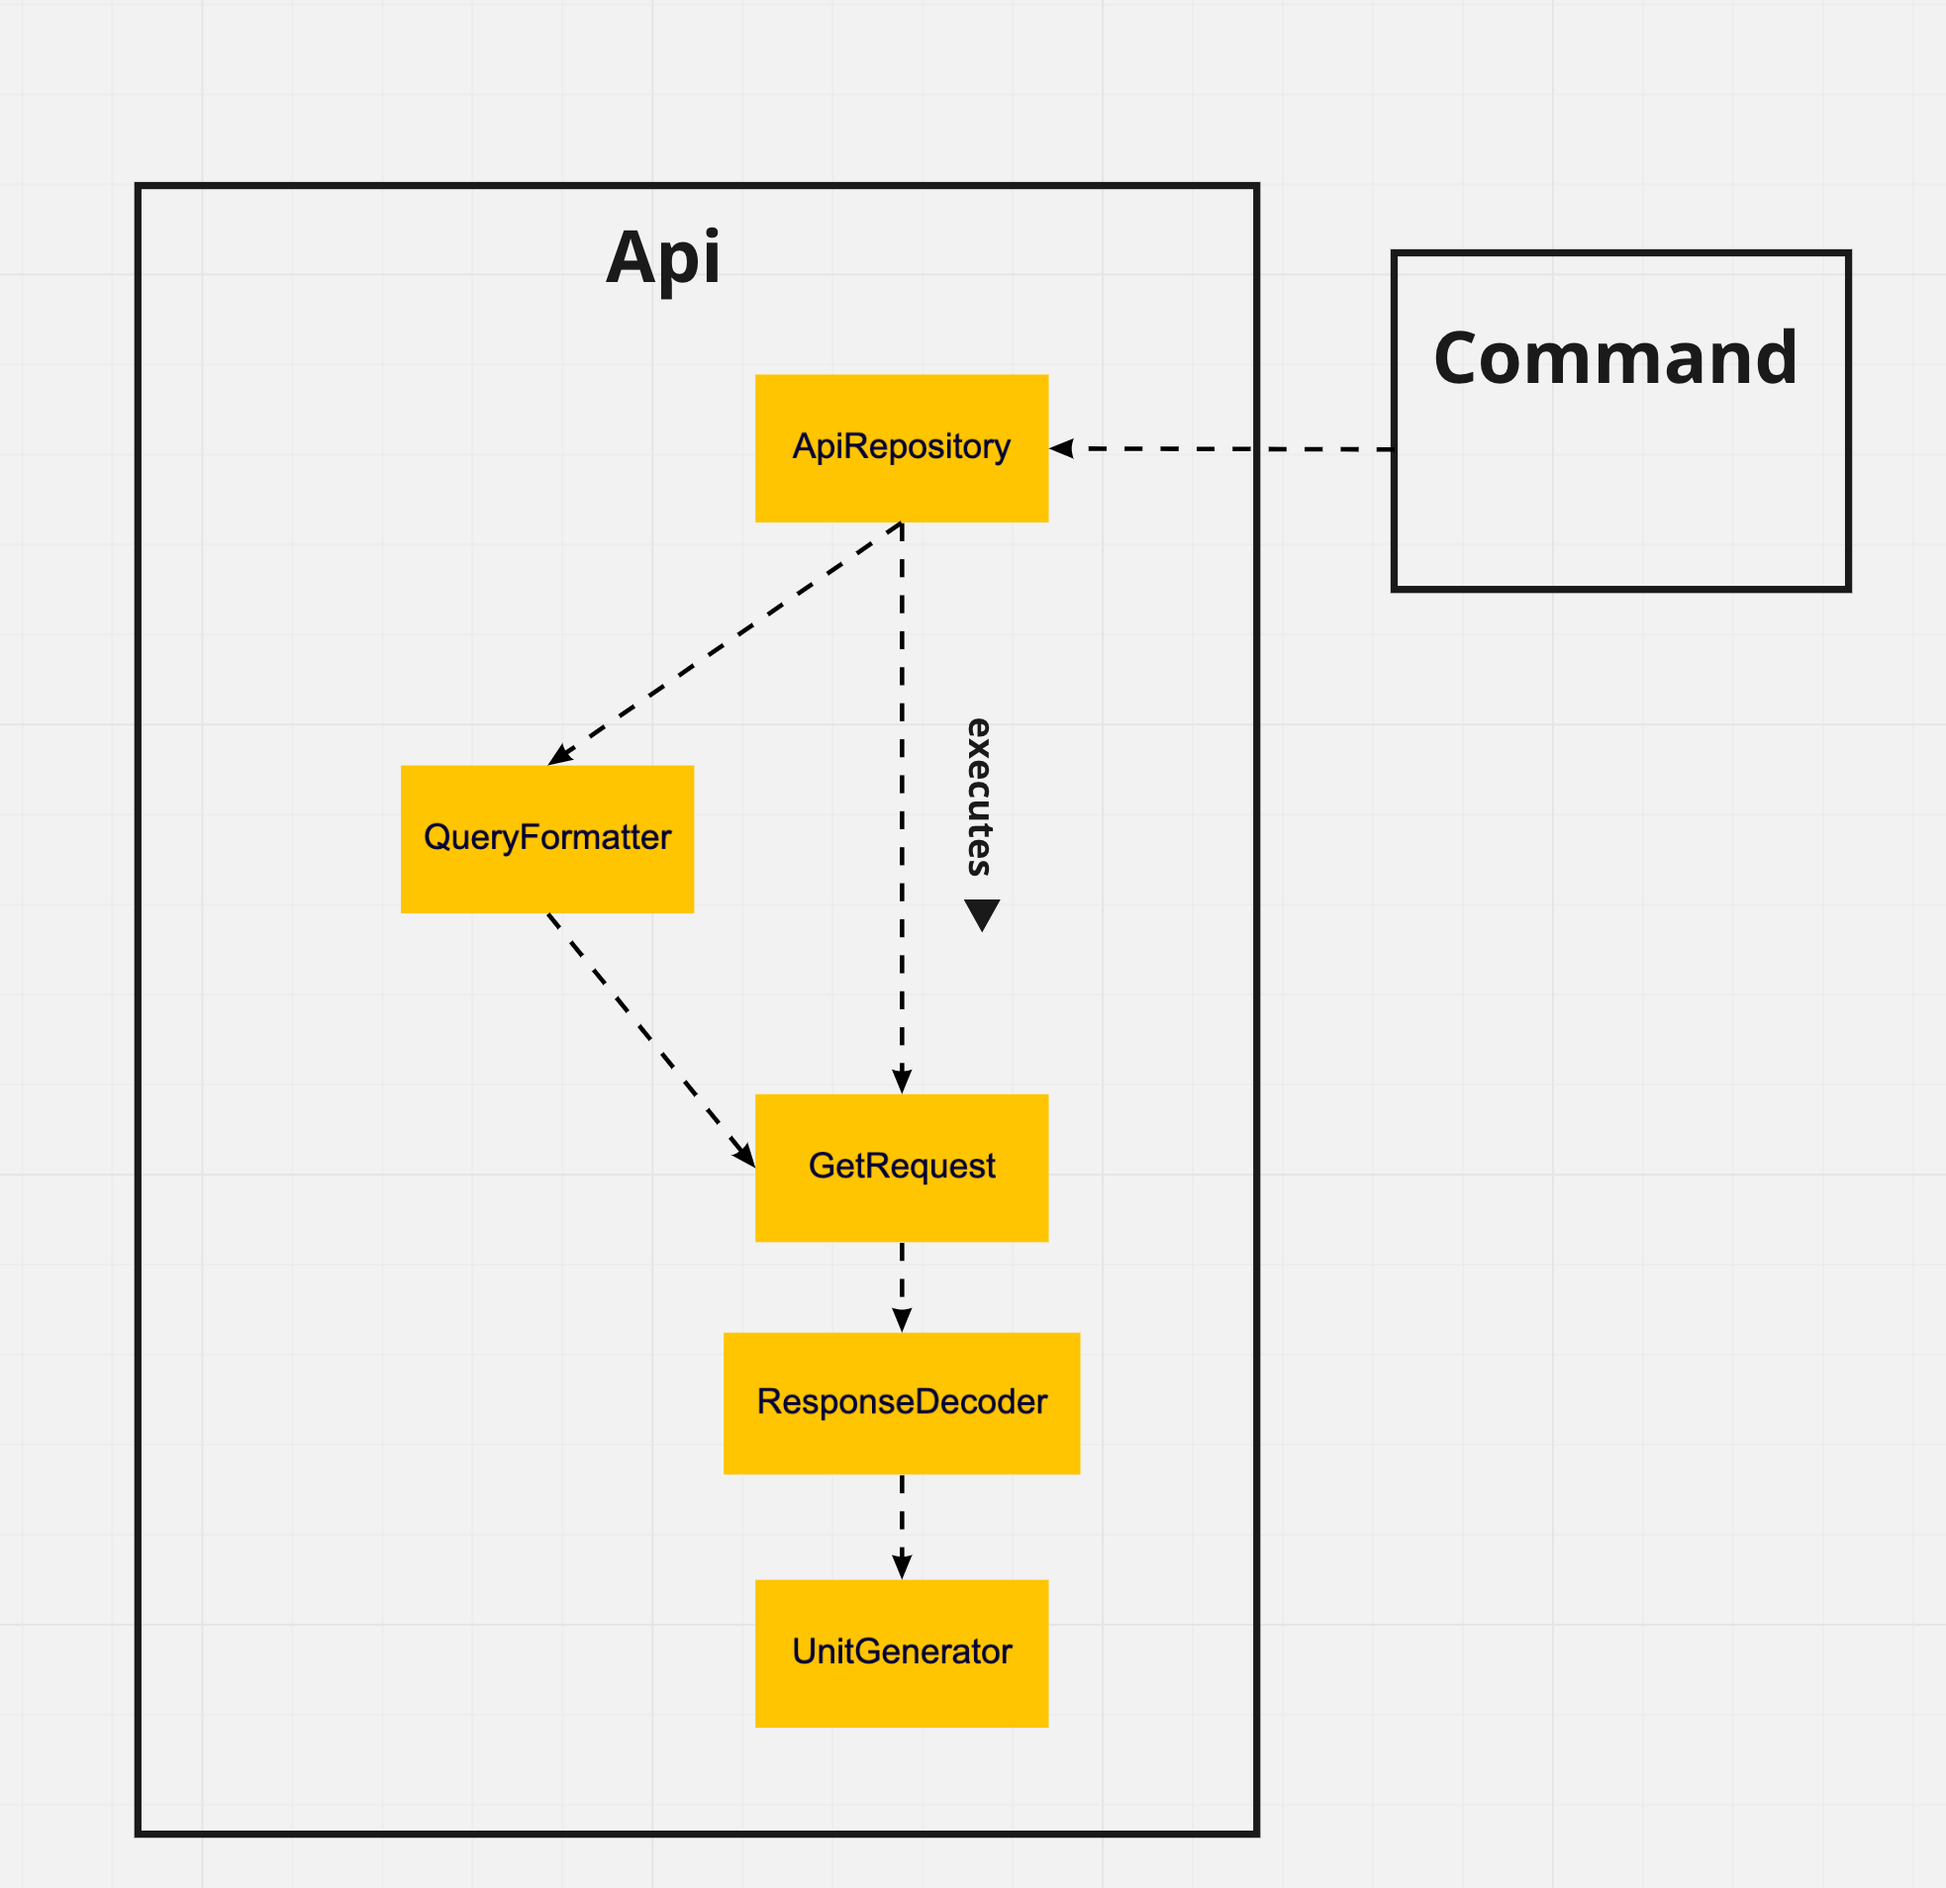
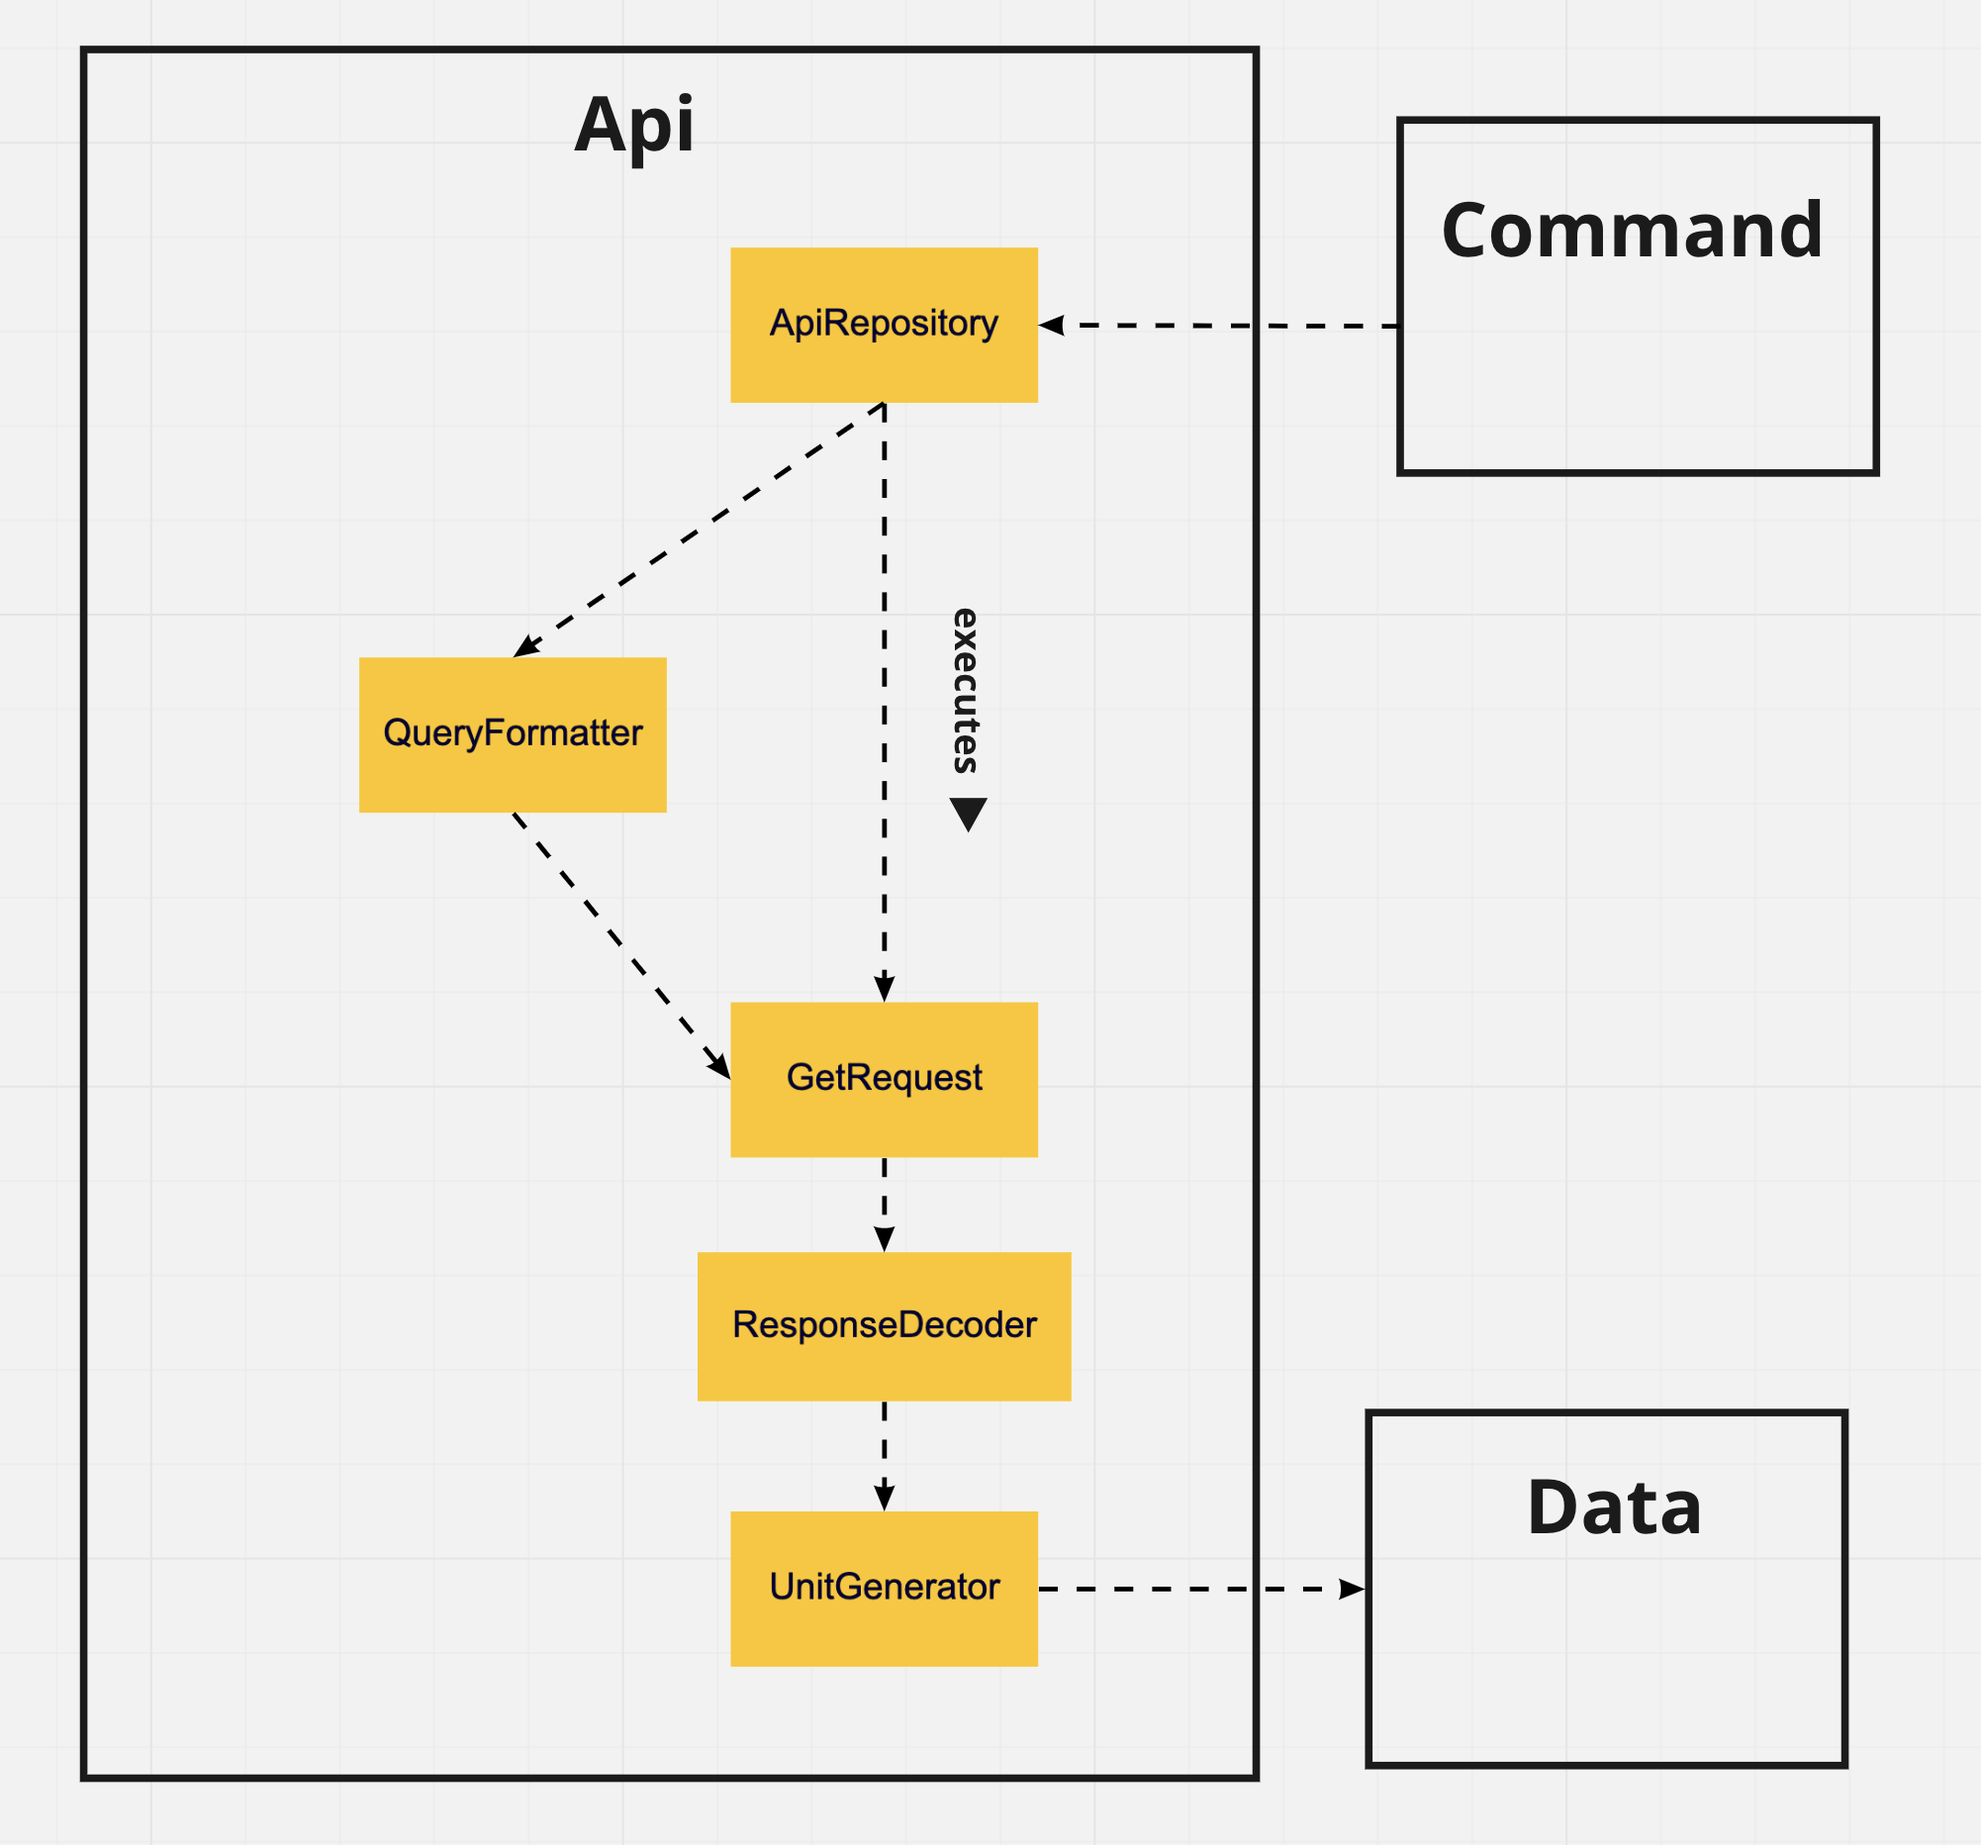
Update DG for API

diff --git a/docs/DeveloperGuide.md b/docs/DeveloperGuide.md
@@ -12,7 +12,7 @@ The rest of the App consists of:
 * [**`Command`**](#command-component): The command executor.
 * [**`Parser`**](#parser-component): Translate user input to valid commands to be executed.
 * [**`Ui`**](#ui-component): Communicates with user via messages.
-* [**`Data`**](#data-component): Contains user input history and temporary memory.
+* [**`Data`**](#data-component): Contains user input history and temporarily tracks search history.
 * [**`Storage`**](#storage-component): Reads data from, and writes data to, the hard disk.
 * [**`Common`**](#common-component): Models of objects used internally.
 
@@ -26,7 +26,7 @@ The `Api`,
 * creates a connection to remote server containing data on resale flats.
 * formats raw query into valid query to be sent as a GET request.
 * returns all flats matching filter conditions and is parsed back to Command to be shown to user via Ui.
-* does not depend on other components apart from being called by Command.
+* Called by FindCommand, stores each unit from response into Data.
 
 **How classes within Api component interact with each other**
 
